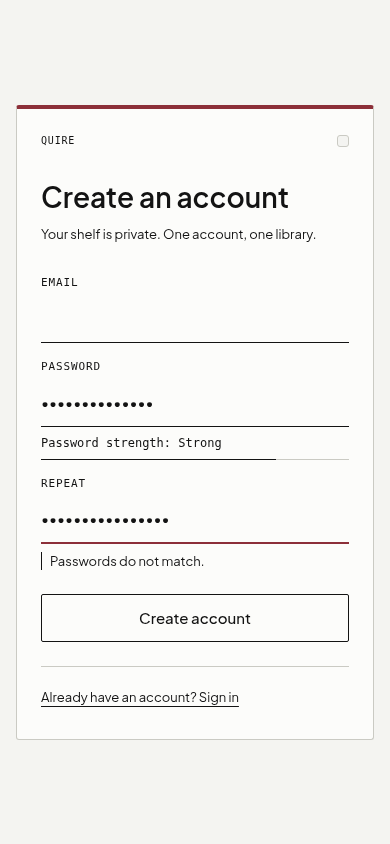
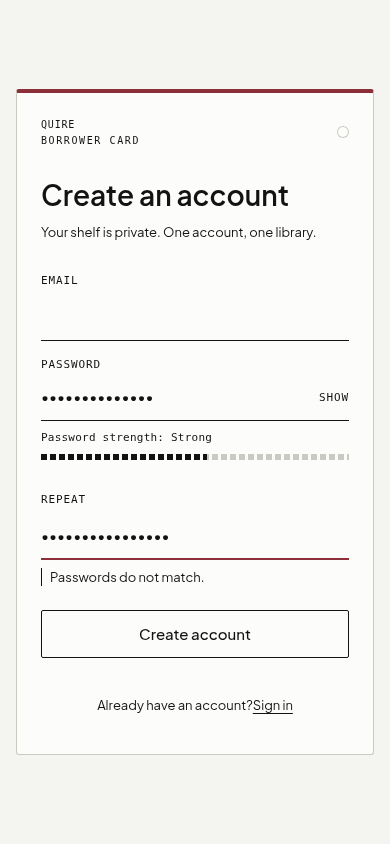
fix(ui): finish the audit round on contrast, file input and stamps

diff --git a/src/styles/auth.css b/src/styles/auth.css
@@ -261,7 +261,7 @@
   padding: 0;
   border: 0;
   background: transparent;
-  color: var(--ink-muted);
+  color: var(--ink);
   font: var(--label-size) / var(--label-leading) var(--font-mono);
   letter-spacing: 0.08em;
   text-transform: uppercase;
@@ -317,7 +317,7 @@
   font: 10px / 12px var(--font-mono);
   letter-spacing: 0.16em;
   text-transform: uppercase;
-  color: var(--ink-muted);
+  color: var(--ink);
 }
 
 .borrower-card .auth-switch {
@@ -325,7 +325,7 @@
   gap: var(--space-6);
   justify-content: center;
   text-decoration: none;
-  color: var(--ink-muted);
+  color: var(--ink);
 }
 
 .borrower-card .auth-switch-action {
@@ -345,7 +345,7 @@
   text-decoration: none;
   border-bottom: 0;
   padding-bottom: 3px;
-  color: var(--ink-muted);
+  color: var(--ink);
 }
 
 .borrower-card .auth-reveal:hover {

diff --git a/src/features/auth/AuthForm.tsx b/src/features/auth/AuthForm.tsx
@@ -172,7 +172,7 @@ export function AuthForm({ client }: { client: SupabaseClient }) {
               type="button"
               className="auth-reveal"
               aria-pressed={reveal}
-              aria-label={reveal ? "Hide password" : "Show password"}
+              aria-label={reveal ? "Hide" : "Show"}
               onClick={() => setReveal((value) => !value)}
             >
               {reveal ? "Hide" : "Show"}
